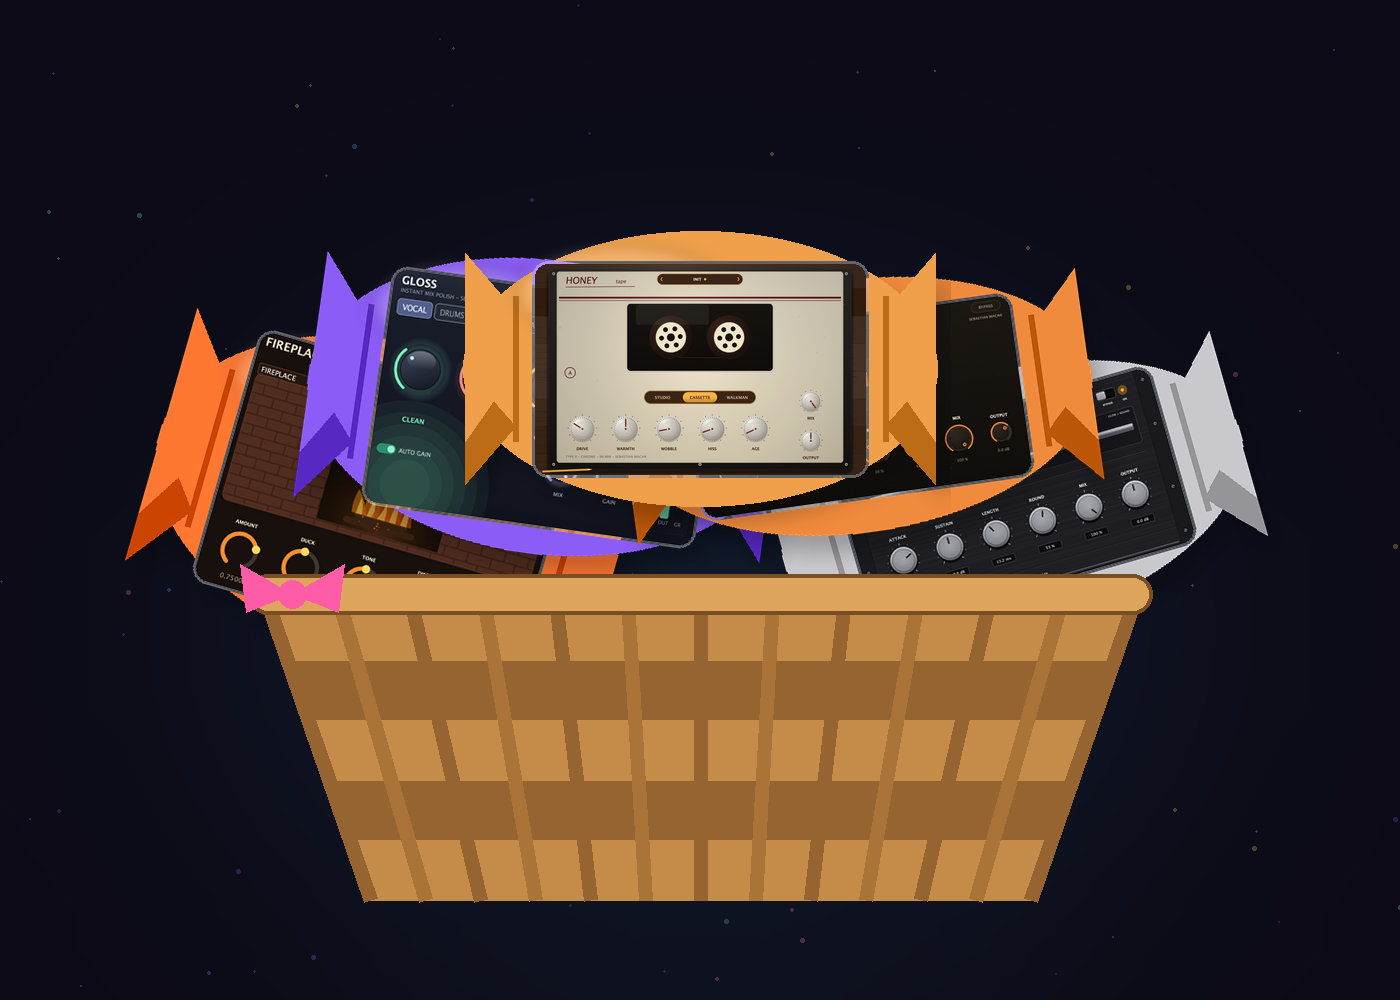
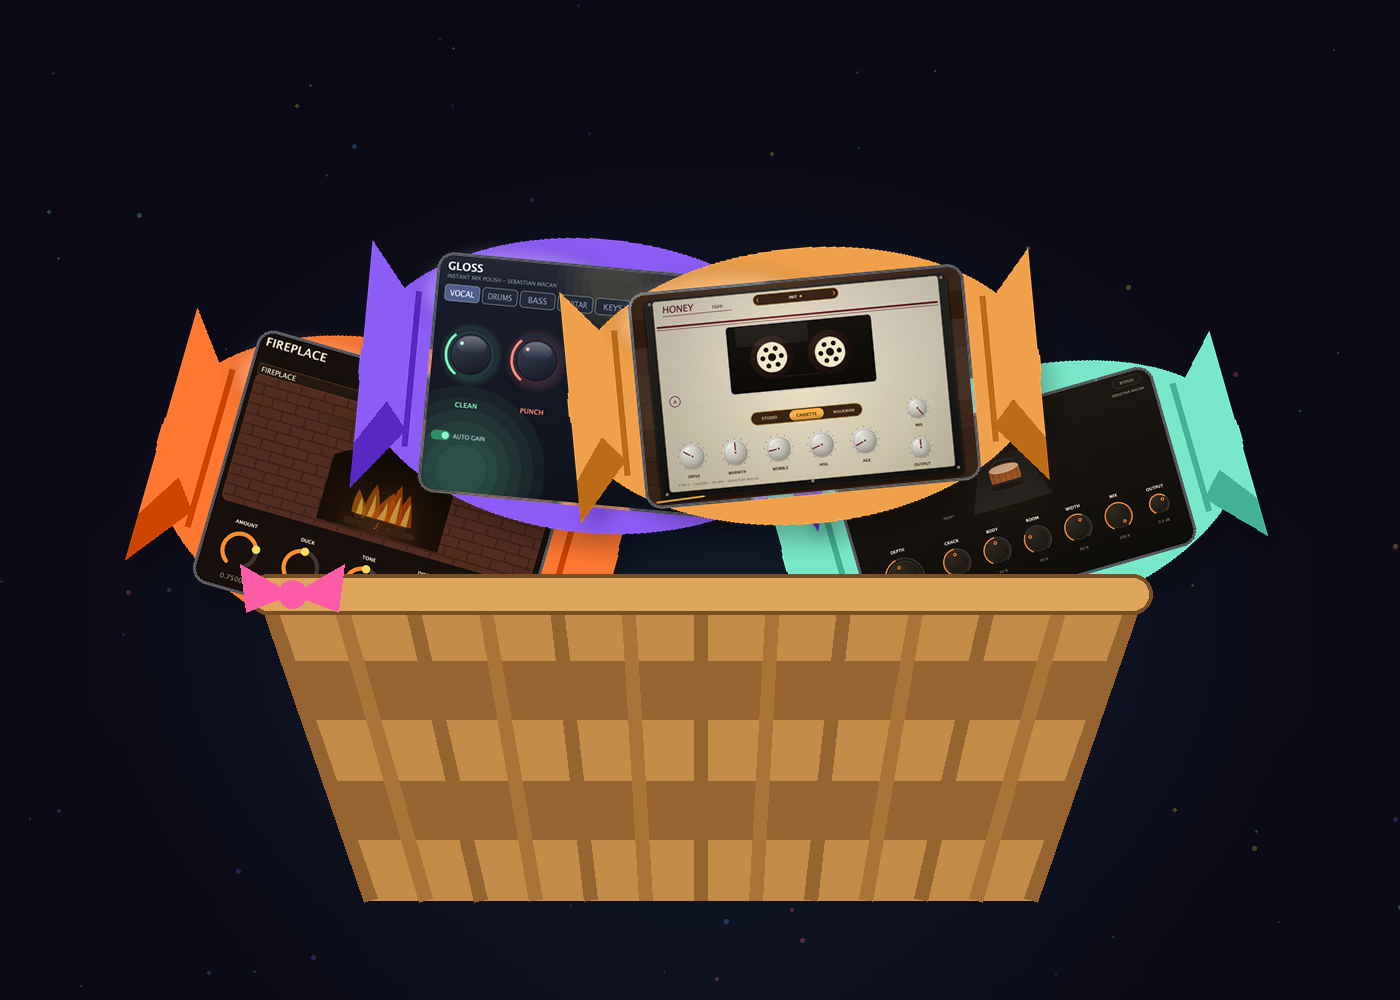
Honey stays (reverted pull); Taffy to the Lab: 10 plugins, Studio = Fireplace/Gloss/Honey/Pocket, cart t1024

Changed region(s): [[0.1843, 0.217, 0.9214, 0.589]]

diff --git a/index.html b/index.html
@@ -9,7 +9,7 @@
 <link rel="icon" type="image/png" sizes="192x192" href="/icons/candy-192.png">
 <link rel="apple-touch-icon" sizes="180x180" href="/icons/candy-180.png">
 <meta name="theme-color" content="#000000">
-<title>Sebastian Macan - Audio Plugins | 11 Plugins + 11 MIDI Packs</title>
+<title>Sebastian Macan - Audio Plugins | 10 Plugins + 11 MIDI Packs</title>
 <meta name="description" content="Creative audio plugins (VST3/AU, macOS) + 4796 MIDI chord progressions incl. Hitmaker Chords and the Modal Series: Biome, Chordsmith, Fireplace, Gloss, Jelly, Orbit, Warble.">
 <style>
   :root { --bg:#0a0a0c; --card:#141418; --txt:#f2f2f4; --dim:#8a8a94; --line:#222228; }
@@ -87,7 +87,6 @@
   .honey { --g1:#f0a04a; --g2:#ffd98a; --glow:#f0a04a; --shadow:rgba(240,160,74,.30); }
   .gremlin { --g1:#2ed14f; --g2:#c9ff4a; --glow:#2ed14f; --shadow:rgba(46,209,79,.30); }
   .pocket { --g1:#f08a3c; --g2:#f3d9ae; --glow:#f08a3c; --shadow:rgba(240,138,60,.30); }
-  .taffy { --g1:#c9c9c9; --g2:#ffb545; --glow:#ffb545; --shadow:rgba(255,181,69,.30); }
   .fireplace { --g1:#ff7a2f; --g2:#ffd27a; --glow:#ff7a2f; --shadow:rgba(255,122,47,.28); }
   .gloss { --g1:#8b6bff; --g2:#3df0a8; --glow:#8b6bff; --shadow:rgba(139,107,255,.26); }
   .biome  { --g1:#3ecf6e; --g2:#5ad9d0; --glow:#3ecf6e; --shadow:rgba(62,207,110,.26); }
@@ -180,9 +179,9 @@
   </header>
 
   <section class="hero">
-    <div class="badge">11 Plugins + 11 MIDI Packs · VST3 + AU · macOS + Windows</div>
+    <div class="badge">10 Plugins + 11 MIDI Packs · VST3 + AU · macOS + Windows</div>
     <h1>A whole <em>candy store</em> of sound.</h1>
-    <p class="sub">Eleven plugins and 4796 MIDI chord progressions for producers who crave something unique. Grab a flavor, drop it in your DAW, create something sweet.</p>
+    <p class="sub">Ten plugins and 4796 MIDI chord progressions for producers who crave something unique. Grab a flavor, drop it in your DAW, create something sweet.</p>
   </section>
 
   <div class="sect-title" id="instruments">Instruments</div>
@@ -256,18 +255,6 @@
 
   <div class="sect-title" id="studio">Studio Tools</div>
   <div class="grid">
-    <div class="card taffy">
-      <span class="new">NEW</span>
-      <div class="kind">Transient Shaper</div>
-      <h2 style="background:linear-gradient(135deg,#c9c9c9,#ffb545);-webkit-background-clip:text;background-clip:text;-webkit-text-fill-color:transparent;">TAFFY</h2>
-      <p class="tag">Transients are sticky.</p>
-      <p class="desc">ATTACK makes it hit harder or softer, SUSTAIN stretches the body out or dries it up. Drums punch through, plucky synths bite and ring. ROUND smooths out distortion, and the stretch bar shows it all happening. Rack-unit UI, zero latency.</p>
-      <div class="shot"><video autoplay muted loop playsinline preload="metadata" poster="img/ui/taffy.png?v=1.0.3"><source src="https://video.sebastianmacan.com/img/video/taffy_ui_loop.mp4?v=1.0.3" type="video/mp4"></video></div>
-      <span class="dl buy" style="background:linear-gradient(135deg,#c9c9c9,#ffb545);box-shadow:0 6px 28px rgba(255,181,69,.30);" role="button" tabindex="0" data-cart-buy="taffy">Buy Taffy &middot; $15</span>
-      <div class="cartrow"><span class="cartbtn add" role="button" tabindex="0" data-cart-add="taffy">Add to Cart</span><span class="cartbtn buy" role="button" tabindex="0" data-cart-buy="taffy">Buy Now</span></div>
-      <a class="more" href="taffy.html">See how it works &rarr;</a>
-      <div class="meta">v1.0.3 · VST3 + AU effect · macOS + Windows</div>
-    </div>
     <div class="card pocket">
       <span class="new">NEW</span>
       <div class="kind">Snare Depth</div>
@@ -482,10 +469,10 @@
       </div>
     </a>
     <a class="bundle studio-b" href="basket-studio.html">
-      <img src="img/bundles/studio_bundle.png?v=6" alt="Studio Tools Basket: Fireplace, Gloss, Honey, Pocket and Taffy as wrapped candy in a basket" loading="lazy">
+      <img src="img/bundles/studio_bundle.png?v=7" alt="Studio Tools Basket: Fireplace, Gloss, Honey and Pocket as wrapped candy in a basket" loading="lazy">
       <div class="binner">
         <h3>STUDIO TOOLS BASKET</h3>
-        <p class="desc">Fireplace, Gloss, Honey, Pocket and Taffy. Atmosphere, mix polish, smooth tape, snare depth and transient shaping. The finishing tools.</p>
+        <p class="desc">Fireplace, Gloss, Honey and Pocket. Atmosphere, mix polish, lofi drum tape and snare character. The finishing tools.</p>
         <div class="price">$35</div>
         <span class="dl bopen" style="background:linear-gradient(135deg,#f5a623,#60a5fa);">Open the basket</span>
         <div class="cartrow"><span class="cartbtn add" role="button" tabindex="0" data-cart-add="studiobasket">Add to Cart</span><span class="cartbtn buy" role="button" tabindex="0" data-cart-buy="studiobasket">Buy Now</span></div>
@@ -549,7 +536,7 @@
     <div style="width:100%;margin-top:10px;font-size:12px;">Guides: <a href="learn/biome.html">Granular synthesis</a> &middot; <a href="learn/chordsmith.html">Chord generators</a> &middot; <a href="learn/jelly.html">Wobble FX</a> &middot; <a href="learn/orbit.html">3D auto-pan</a></div>
   </footer>
 </div>
-<script src="js/cart.js?v=p17" defer></script>
+<script src="js/cart.js?v=t1024" defer></script>
 <script src="js/email-gate.js" defer></script>
 <script>
 // Whole plugin card is clickable -> its "See how it works" page.

diff --git a/basket-studio.html b/basket-studio.html
@@ -10,7 +10,7 @@
 <link rel="icon" type="image/png" sizes="192x192" href="/icons/candy-192.png">
 <link rel="apple-touch-icon" sizes="180x180" href="/icons/candy-180.png">
 <meta name="theme-color" content="#000000">
-<meta name="description" content="Fireplace, Gloss, Honey, Pocket and Taffy. The Sebastian Macan finishing tools, one basket, VST3 + AU.">
+<meta name="description" content="Fireplace, Gloss, Honey and Pocket. The Sebastian Macan finishing tools, one basket, VST3 + AU.">
 <meta name="robots" content="index,follow">
 <style>
   :root { --bg:#0a0a0c; --card:#141418; --txt:#f2f2f4; --dim:#8a8a94; --line:#222228; --g1:#f5a623; --g2:#60a5fa; }
@@ -82,7 +82,7 @@
   </section>
 
   <h2>What's in the basket</h2>
-  <p class="sub">Fireplace lays a living room of atmosphere under the beat. Honey puts the chords on smooth tape. Gloss makes every track sit right. Pocket puts the snare in the mix instead of on top of it. Taffy makes drums and plucky synths hit the way you want. From rough idea to finished mix, one basket. Every item below is sold on its own too, or take the whole basket at once.</p>
+  <p class="sub">Fireplace lays a living room of atmosphere under the beat. Honey puts the chords on smooth tape. Gloss makes every track sit right. Pocket puts the snare in the mix instead of on top of it. From rough idea to finished mix, one basket. Every item below is sold on its own too, or take the whole basket at once.</p>
     <div class="item">
       <div class="iinfo">
         <div class="ikind">Ambience</div>
@@ -131,23 +131,11 @@
         <span class="dl buy idl" role="button" tabindex="0" data-cart-buy="pocket">Buy Pocket &middot; $15</span>
       </div>
     </div>
-    <div class="item">
-      <div class="iinfo">
-        <div class="ikind">Transient Shaper</div>
-        <div class="iname">Taffy</div>
-        <p class="itag">Transients are sticky.</p>
-        <a class="rowlink" href="taffy.html">See how it works &rarr;</a>
-      </div>
-      <div class="iact">
-        <div class="iprice">$15</div>
-        <span class="dl buy idl" role="button" tabindex="0" data-cart-buy="taffy">Buy Taffy &middot; $15</span>
-      </div>
-    </div>
 
-  <div class="cta"><span class="dl buy" role="button" tabindex="0" data-cart-buy="studiobasket">Buy Studio Tools Basket &middot; $35</span><div class="cartrow" style="justify-content:center;"><span class="cartbtn add" role="button" tabindex="0" data-cart-add="studiobasket">Add to Cart</span><span class="cartbtn buy" role="button" tabindex="0" data-cart-buy="studiobasket">Buy Now</span></div><div class="meta">5 installers in one email. Download, install, done.</div></div>
+  <div class="cta"><span class="dl buy" role="button" tabindex="0" data-cart-buy="studiobasket">Buy Studio Tools Basket &middot; $35</span><div class="cartrow" style="justify-content:center;"><span class="cartbtn add" role="button" tabindex="0" data-cart-add="studiobasket">Add to Cart</span><span class="cartbtn buy" role="button" tabindex="0" data-cart-buy="studiobasket">Buy Now</span></div><div class="meta">4 installers in one email. Download, install, done.</div></div>
 
   <div class="mathbox">
-    Bought one by one this basket adds up to <b>$79</b>. As a basket it's <b>$35</b>, one-time. 5 items, zero catches.
+    Bought one by one this basket adds up to <b>$64</b>. As a basket it's <b>$35</b>, one-time. 4 items, zero catches.
   </div>
 
   <footer>
@@ -155,7 +143,7 @@
     <div><a href="pricing.html">Pricing</a> &middot; <a href="terms.html">Terms</a> &middot; <a href="refunds.html">Refunds</a> &middot; <a href="privacy.html">Privacy</a> &middot; <a href="downloads.html">Re-download</a></div>
   </footer>
 </div>
-<script src="js/cart.js?v=p17" defer></script>
+<script src="js/cart.js?v=t1024" defer></script>
 <script src="js/email-gate.js" defer></script>
 </body>
 </html>

diff --git a/pricing.html b/pricing.html
@@ -67,7 +67,6 @@
 <tr><td>Warble</td><td>Bird pitch-wobble effect</td><td class="price">$15</td></tr>
     <tr><td>Gremlin</td><td>Glitch, stutter and granular mangler</td><td class="price">$15</td></tr>
     <tr><td>Pocket</td><td>Snare depth</td><td class="price">$15</td></tr>
-    <tr><td>Taffy</td><td>Transient shaper</td><td class="price">$15</td></tr>
 <tr><td>Jelly</td><td>Wobble effect</td><td class="price">$15</td></tr>
   </table>
 
@@ -86,7 +85,7 @@
     <tr><th>Bundle</th><th>Contents</th><th>Price</th></tr>
     <tr><td>Instruments Basket</td><td>Biome and Chordsmith (worth $78)</td><td class="price">$59</td></tr>
     <tr><td>Effects Basket</td><td>Jelly, Warble, Gloss and Gremlin, plus Orbit (worth $64)</td><td class="price">$49</td></tr>
-    <tr><td>Studio Tools Basket</td><td>Fireplace, Gloss, Honey, Pocket and Taffy (worth $79)</td><td class="price">$35</td></tr>
+    <tr><td>Studio Tools Basket</td><td>Fireplace, Gloss, Honey and Pocket (worth $64)</td><td class="price">$35</td></tr>
     <tr><td>Cozy Basket</td><td>Honey and Fireplace (worth $30)</td><td class="price">$22</td></tr>
     <tr><td>Chord Basket</td><td>Chordsmith + every MIDI pack: Hitmaker Chords, Tears, Club, Soul and all 7 mode packs, 4796 progressions (worth $139)</td><td class="price">$69</td></tr>
     <tr><td>MIDI Mega Basket</td><td>Every MIDI pack: Hitmaker Chords + Tears + Club + Soul + all 7 mode packs, 4796 progressions (worth $100)</td><td class="price">$49</td></tr>
@@ -102,6 +101,6 @@
     <div><a href="/pricing.html">Pricing</a> · <a href="/terms.html">Terms</a> · <a href="/refunds.html">Refunds</a> · <a href="/privacy.html">Privacy</a> · <a href="/downloads.html">Re-download</a></div>
   </footer>
 </div>
-<script src="js/cart.js?v=p17" defer></script>
+<script src="js/cart.js?v=t1024" defer></script>
 </body>
 </html>

diff --git a/js/cart.js b/js/cart.js
@@ -33,7 +33,6 @@
     honey:         { name: 'Honey',                  cents: 1500, priceId: 'pri_01m3nvfqfgwp0hn49hbr0zw2dt' },
     gremlin:       { name: 'Gremlin',                cents: 1500, priceId: 'pri_01m3rmmy11e41nxdpkp9rdjq4d' },
     pocket:        { name: 'Pocket',                 cents: 1500, priceId: 'pri_01m5jmgg27ch339v1v5gkr6g7a' },
-    taffy:         { name: 'Taffy',                  cents: 1500, priceId: 'pri_01m5k4mam8c7bnvnmf8mxsg99z' },
     fireplace:     { name: 'Fireplace',              cents: 1500, priceId: 'pri_01m1nckxvaekbaccghkvvh4zva' },
     gloss:         { name: 'Gloss',                  cents: 1900, priceId: 'pri_01m09knjab3bppsqctg98j5s3b' },
     /* MIDI chord packs */
@@ -69,7 +68,7 @@
   var BASKETS = {
     instrumentsbasket: { page: 'basket-instruments.html', items: ['biome', 'magician'] },
     effectsbasket:     { page: 'basket-effects.html',     items: ['jelly', 'warble', 'gloss', 'gremlin'], bonus: ['Orbit'] },
-    studiobasket:      { page: 'basket-studio.html',      items: ['fireplace', 'gloss', 'honey', 'pocket', 'taffy'] },
+    studiobasket:      { page: 'basket-studio.html',      items: ['fireplace', 'gloss', 'honey', 'pocket'] },
     cozy:              { page: 'basket-cozy.html',        items: ['honey', 'fireplace'] },
     lofibasket:        { page: 'basket-lofi.html',        items: ['fireplace', 'warble', 'honey'] },
     chordbasket:       { page: 'basket-chord.html',       items: ['magician', 'hitmaker', 'tears', 'clubchords', 'soulchords', 'ionian', 'dorian', 'phrygian', 'lydian', 'mixolydian', 'aeolian', 'locrian'] },

diff --git a/honey.html b/honey.html
@@ -164,7 +164,7 @@
     <div><a href="pricing.html">Pricing</a> &middot; <a href="terms.html">Terms</a> &middot; <a href="refunds.html">Refunds</a> &middot; <a href="privacy.html">Privacy</a> &middot; <a href="downloads.html">Re-download</a></div>
   </footer>
 </div>
-<script src="js/cart.js?v=p17" defer></script>
+<script src="js/cart.js?v=t1024" defer></script>
 <script src="js/email-gate.js" defer></script>
 <script>document.querySelectorAll(".face").forEach(function(f){f.addEventListener("click",function(){document.querySelectorAll(".face").forEach(function(x){x.classList.remove("on")});f.classList.add("on");var i=document.getElementById("honeyface");i.poster="img/ui/honey_"+f.dataset.face+".png?v=1.0.0";i.querySelector("source").src="https://video.sebastianmacan.com/img/video/honey_face_"+f.dataset.face+".mp4?v=fix2";i.load();i.play();});});</script>
 </body>

diff --git a/biome.html b/biome.html
@@ -254,7 +254,7 @@
     <div><a href="pricing.html">Pricing</a> &middot; <a href="terms.html">Terms</a> &middot; <a href="refunds.html">Refunds</a> &middot; <a href="privacy.html">Privacy</a> &middot; <a href="downloads.html">Re-download</a></div>
   </footer>
 </div>
-<script src="js/cart.js?v=p17" defer></script>
+<script src="js/cart.js?v=t1024" defer></script>
 <script src="js/email-gate.js" defer></script>
 <script src="js/madewith.js?v=2"></script>
 </body>

diff --git a/basket-chord.html b/basket-chord.html
@@ -239,7 +239,7 @@
     <div><a href="pricing.html">Pricing</a> &middot; <a href="terms.html">Terms</a> &middot; <a href="refunds.html">Refunds</a> &middot; <a href="privacy.html">Privacy</a> &middot; <a href="downloads.html">Re-download</a></div>
   </footer>
 </div>
-<script src="js/cart.js?v=p17" defer></script>
+<script src="js/cart.js?v=t1024" defer></script>
 <script src="js/email-gate.js" defer></script>
 </body>
 </html>

diff --git a/basket-cozy.html b/basket-cozy.html
@@ -118,7 +118,7 @@
     <div><a href="pricing.html">Pricing</a> &middot; <a href="terms.html">Terms</a> &middot; <a href="refunds.html">Refunds</a> &middot; <a href="privacy.html">Privacy</a> &middot; <a href="downloads.html">Re-download</a></div>
   </footer>
 </div>
-<script src="js/cart.js?v=p17" defer></script>
+<script src="js/cart.js?v=t1024" defer></script>
 <script src="js/email-gate.js" defer></script>
 </body>
 </html>

diff --git a/basket-effects.html b/basket-effects.html
@@ -155,7 +155,7 @@
     <div><a href="pricing.html">Pricing</a> &middot; <a href="terms.html">Terms</a> &middot; <a href="refunds.html">Refunds</a> &middot; <a href="privacy.html">Privacy</a> &middot; <a href="downloads.html">Re-download</a></div>
   </footer>
 </div>
-<script src="js/cart.js?v=p17" defer></script>
+<script src="js/cart.js?v=t1024" defer></script>
 <script src="js/email-gate.js" defer></script>
 </body>
 </html>

diff --git a/basket-instruments.html b/basket-instruments.html
@@ -119,7 +119,7 @@
     <div><a href="pricing.html">Pricing</a> &middot; <a href="terms.html">Terms</a> &middot; <a href="refunds.html">Refunds</a> &middot; <a href="privacy.html">Privacy</a> &middot; <a href="downloads.html">Re-download</a></div>
   </footer>
 </div>
-<script src="js/cart.js?v=p17" defer></script>
+<script src="js/cart.js?v=t1024" defer></script>
 <script src="js/email-gate.js" defer></script>
 </body>
 </html>

diff --git a/basket-lofi.html b/basket-lofi.html
@@ -131,7 +131,7 @@
     <div><a href="pricing.html">Pricing</a> &middot; <a href="terms.html">Terms</a> &middot; <a href="refunds.html">Refunds</a> &middot; <a href="privacy.html">Privacy</a> &middot; <a href="downloads.html">Re-download</a></div>
   </footer>
 </div>
-<script src="js/cart.js?v=p17" defer></script>
+<script src="js/cart.js?v=t1024" defer></script>
 <script src="js/email-gate.js" defer></script>
 </body>
 </html>

diff --git a/basket-midi.html b/basket-midi.html
@@ -227,7 +227,7 @@
     <div><a href="pricing.html">Pricing</a> &middot; <a href="terms.html">Terms</a> &middot; <a href="refunds.html">Refunds</a> &middot; <a href="privacy.html">Privacy</a> &middot; <a href="downloads.html">Re-download</a></div>
   </footer>
 </div>
-<script src="js/cart.js?v=p17" defer></script>
+<script src="js/cart.js?v=t1024" defer></script>
 <script src="js/email-gate.js" defer></script>
 </body>
 </html>
